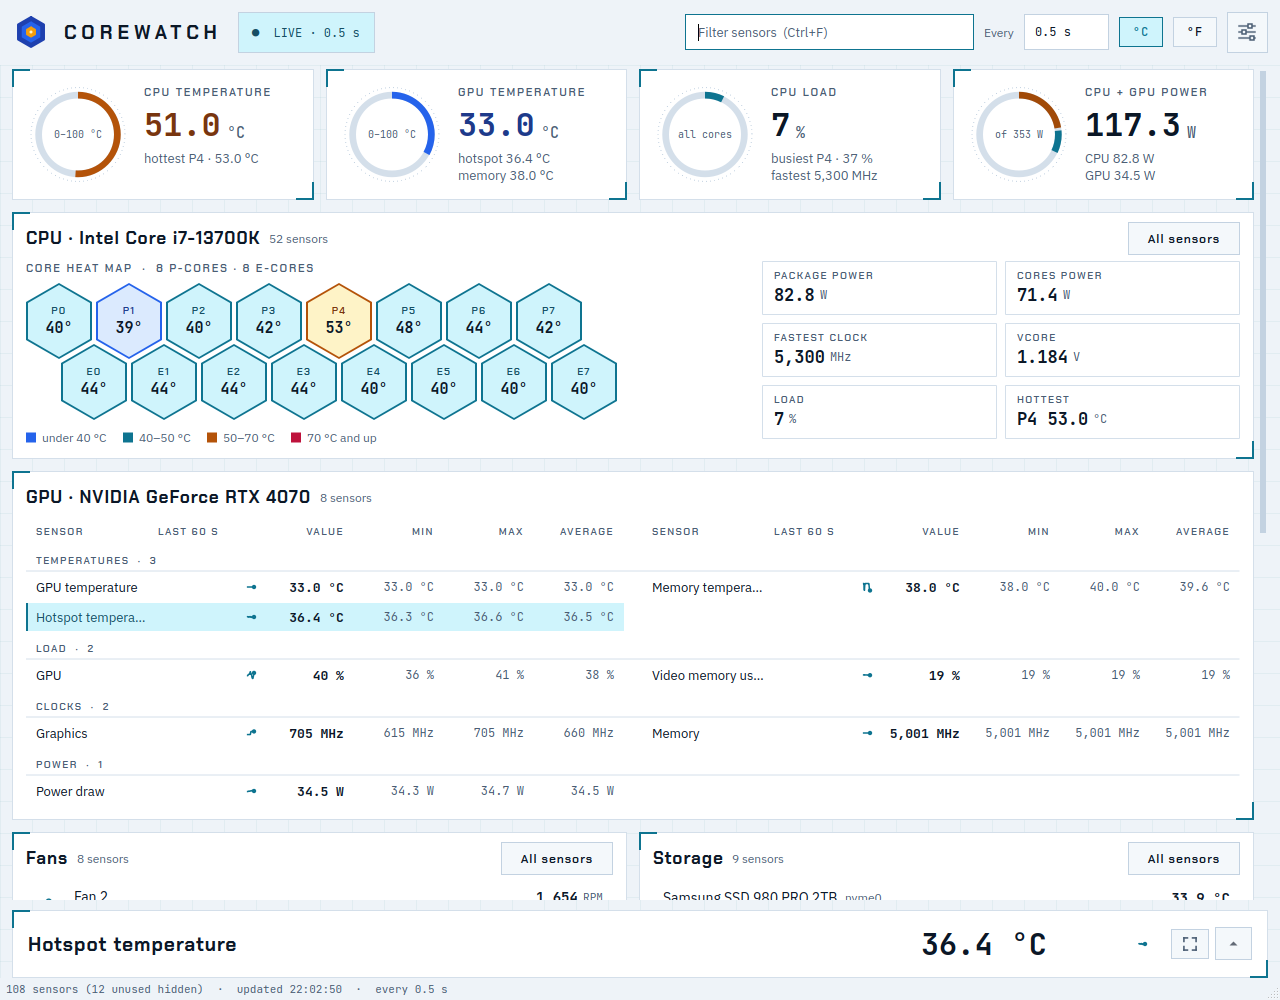
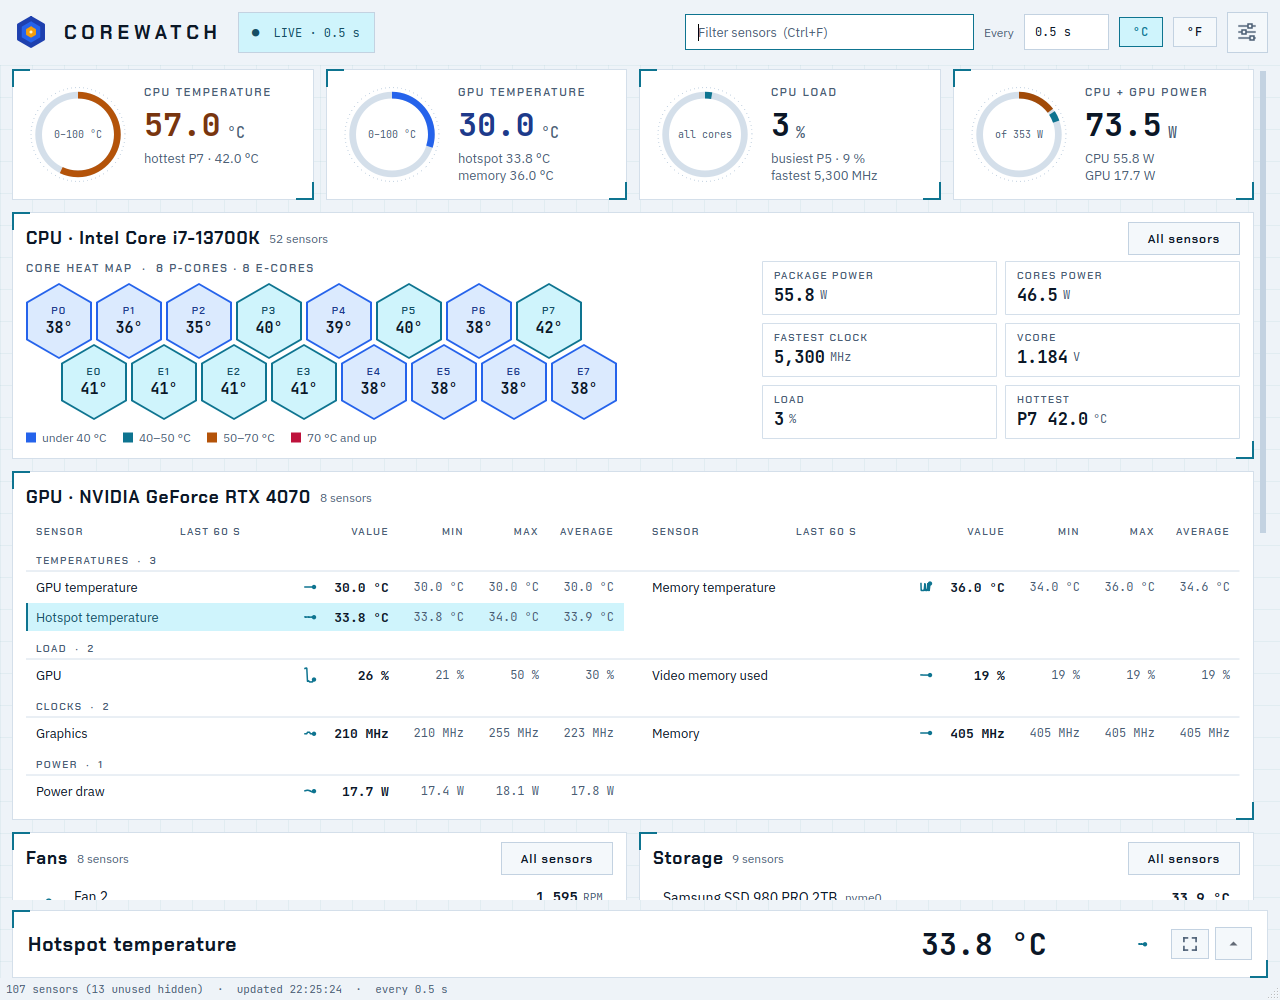
Read each CPU core's top clock, and keep the peak label clear of a limit's
Each core's clock carries its top speed from cpuinfo_max_freq (a favoured
core's is higher, an E-core's lower), so its focus dial, headroom and chart
read against it. On the focus chart, a peak at a limit or a max moves its label
under the dot instead of printing over the limit's name.

diff --git a/src/corewatch/gui/widgets.py b/src/corewatch/gui/widgets.py
@@ -361,6 +361,7 @@ class HistoryChart(QWidget):
             zone.setAlpha(14)
             painter.fillRect(QRectF(plot.topLeft(), QPointF(plot.right(), to_xy(start, reading.crit).y())), zone)
         named = font(DISPLAY_FONT, 9, QFont.Weight.DemiBold, 1.5)
+        taken: list[QRectF] = []  # where the limits' names went, for the peak's label to keep clear of
         for limit, color, name in (
             (reading.high, theme.warning, "high"),
             (reading.crit, theme.critical, "critical"),
@@ -380,6 +381,8 @@ class HistoryChart(QWidget):
                     if box.top() < plot.top():  # no room above the line: write it under
                         box.moveTop(y + 2)
                     painter.drawText(box, Qt.AlignmentFlag.AlignRight | Qt.AlignmentFlag.AlignVCenter, label)
+                    used = QFontMetrics(named).horizontalAdvance(label)
+                    taken.append(QRectF(box.right() - used, box.top(), used, box.height()))
                     painter.setFont(small)
 
         # The series itself, with a soft fill underneath.
@@ -438,6 +441,8 @@ class HistoryChart(QWidget):
             width = metrics.horizontalAdvance(label) + 8
             box = QRectF(center.x() - width / 2, center.y() + (-(text_height + 6) if above else 6), width, text_height)
             box.moveLeft(min(max(box.left(), plot.left()), plot.right() - box.width()))
+            if above and any(box.intersects(name) for name in taken):  # a peak at a limit: under its dot
+                box.moveTop(center.y() + 6)
             if lowest is not highest or above:
                 painter.drawText(box, Qt.AlignmentFlag.AlignHCenter, label)
 

diff --git a/tests/test_cpu_rapl.py b/tests/test_cpu_rapl.py
@@ -2,6 +2,7 @@ from pathlib import Path
 
 from conftest import write_tree
 
+from corewatch.model import Kind
 from corewatch.sources.base import cpu_model_name
 from corewatch.sources.cpu import CpuSource, Ticks, load_percent, parse_proc_stat
 from corewatch.sources.rapl import RaplSource
@@ -48,6 +49,7 @@ def test_cpu_source_groups_threads_into_cores(tmp_path: Path, proc_root: Path) -
             "cpu1/topology/physical_package_id": "0",
             "cpu1/topology/core_id": "0",
             "cpu1/cpufreq/scaling_cur_freq": "5300000",
+            "cpu1/cpufreq/cpuinfo_max_freq": "5400000",  # cpu0 has none: the core's is what's known
             "cpu2/online": "0",  # offline: no topology, must be ignored
             "online": "0-1",
         },
@@ -61,6 +63,9 @@ def test_cpu_source_groups_threads_into_cores(tmp_path: Path, proc_root: Path) -
         "Core 0 load": 50.0,  # average of its two threads (90 % and 10 %)
         "Core 0 clock": 5300.0,  # fastest thread
     }
+    assert {r.label: r.cap for r in source.sample() if r.kind is Kind.CLOCK} == {"Core 0 clock": 5400.0}
+    (sys_cpu / "cpu1/cpufreq/cpuinfo_max_freq").unlink()
+    assert {r.label: r.cap for r in source.sample() if r.kind is Kind.CLOCK} == {"Core 0 clock": None}
 
 
 def test_cpu_source_multi_package_labels(tmp_path: Path, proc_root: Path) -> None:

diff --git a/src/corewatch/sources/cpu.py b/src/corewatch/sources/cpu.py
@@ -83,6 +83,10 @@ class CpuSource:
             known_clocks = [c for c in clocks if c is not None]
             if not known_clocks:
                 continue
+            # The core's top speed from the hardware (a favoured core's is higher than the rest,
+            # an E-core's lower), not scaling_max_freq, which is only where a policy caps it now.
+            tops = [read_int(self.sys_cpu / f"cpu{t}" / "cpufreq" / "cpuinfo_max_freq") for t in core.threads]
+            known_tops = [top for top in tops if top]
             readings.append(
                 Reading(
                     key=f"cpu/clock/{core.package}/{core.core_id}",
@@ -90,6 +94,7 @@ class CpuSource:
                     label=f"{core.name} clock",
                     kind=Kind.CLOCK,
                     value=max(known_clocks) / 1000,
+                    cap=max(known_tops) / 1000 if known_tops else None,
                 )
             )
         return readings

diff --git a/README.md b/README.md
@@ -58,9 +58,9 @@ load and power reading your machine exposes, refreshes them at an interval you c
 - **Focus view.** Double-click any sensor (in a card, a gauge or the heat map), or use the focus
   button in the detail drawer, to see it across the whole window:
   - a dial with the reading against its scale, its high limit marked and its critical zone
-    shaded. A power reading fills against its limit, and an NVIDIA card's clocks against their top
-    speed. Sensors with no natural scale (voltages, CPU clocks, fan RPM, traffic) show the number
-    alone;
+    shaded. A power reading fills against its limit, and a clock against its top speed (each CPU
+    core's own, and an NVIDIA card's). Sensors with no natural scale (voltages, fan RPM, traffic)
+    show the number alone;
   - the headroom to its limit, and which way it's heading;
   - a large chart that always keeps the limits in view, with its peak and a 1-minute average;
   - every statistic, each with a word on what it means.
@@ -110,7 +110,7 @@ load and power reading your machine exposes, refreshes them at an interval you c
 | Kernel hwmon (`/sys/class/hwmon`) | Intel CPU package and per-core temperatures (`coretemp`), motherboard temperatures, fans, fan control, voltages, NVMe and network card temperatures, and anything else a driver publishes |
 | AMD CPUs (`k10temp`, optional `zenpower`) | CPU temperature (the real die temperature, plus the fan-control value where the chip reports both) and one temperature per chiplet (CCD); AMD reports no per-core temperatures. With `zenpower` (Zen 1-3), core and SoC voltages, currents and power |
 | AMD GPUs (`amdgpu`) | GPU, hotspot and memory temperatures (warning at the throttle point, critical at shutdown), fan speed (RPM and %), core voltage, graphics and memory clocks, power draw against its cap, load and video memory, under the card's model name |
-| `/proc/stat`, cpufreq | Load and clock speed per physical core |
+| `/proc/stat`, cpufreq | Load and clock speed per physical core, with each core's top clock from the hardware |
 | RAPL (`/sys/class/powercap`) | CPU package and core power draw on Intel and AMD Zen, and Intel integrated graphics power (needs one permission tweak, see below). The package's power limit (the higher of its sustained and boost limits, as the firmware or a power profile sets them) is shown for reference, not as a warning |
 | Intel graphics (`i915`, `xe`) | Graphics clock and active time (the share of time it isn't asleep) for integrated graphics and Arc cards. **Integrated:** power draw from RAPL; it has no temperature sensor of its own, so its heat shows in the CPU package temperature, and if it's switched off in the BIOS only its power draw appears, under the CPU. **Arc:** power draw against its limit and core voltage, plus fan speeds and GPU and memory temperatures where the kernel reports them (fans from about Linux 6.12, temperatures on Battlemage with `xe`). corewatch never keeps an idle Intel GPU awake: while nothing is using it, it shows 0 MHz and 0 % without reading it, and an Arc card's sensors stay blank until it's in use |
 | NVIDIA NVML | GPU temperature, fan speeds (RPM and %), power draw (the power limit is shown for reference, not as a warning), graphics and memory clocks (with the card's top clock for each), load, video memory |
